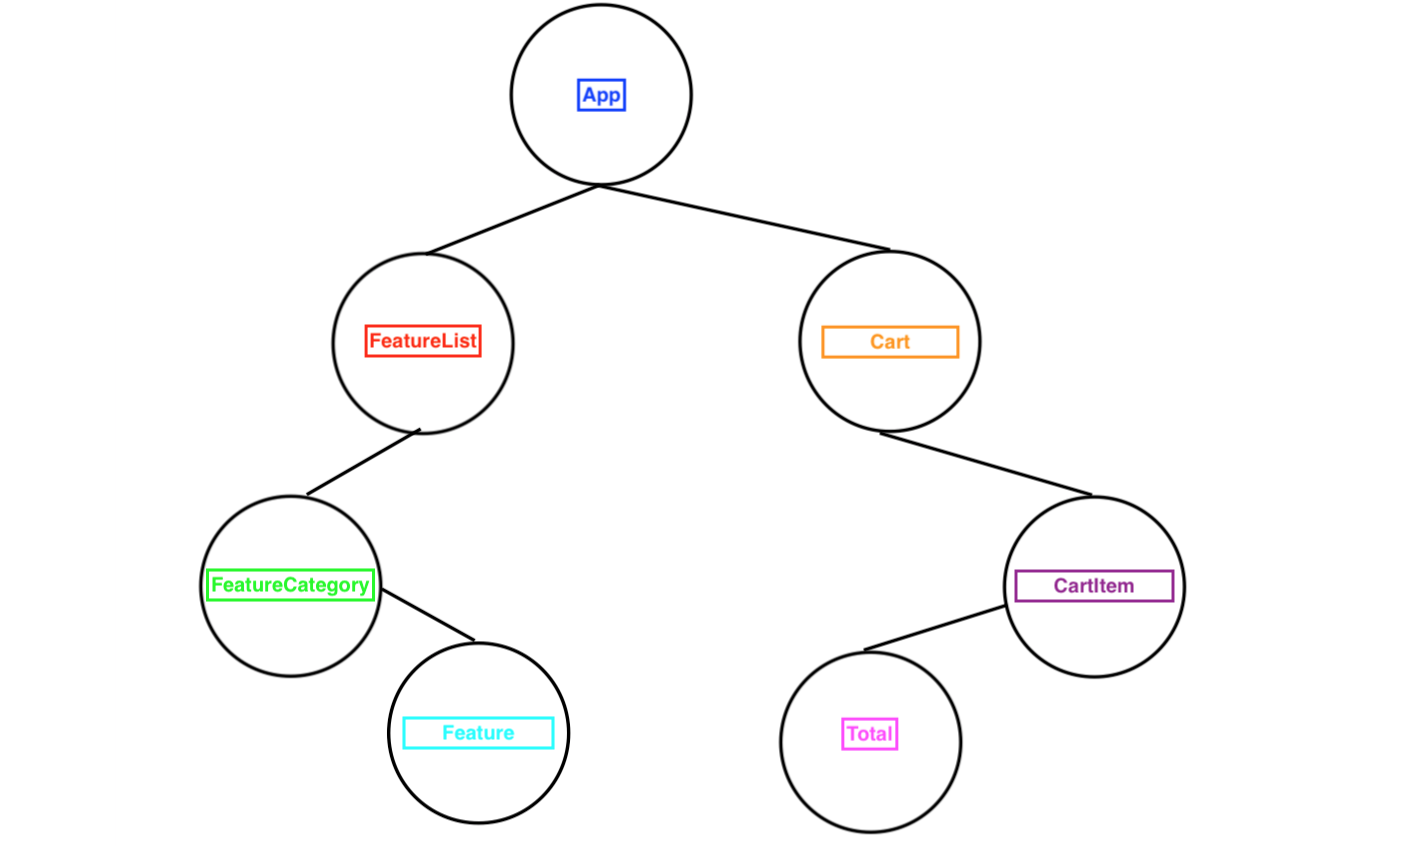
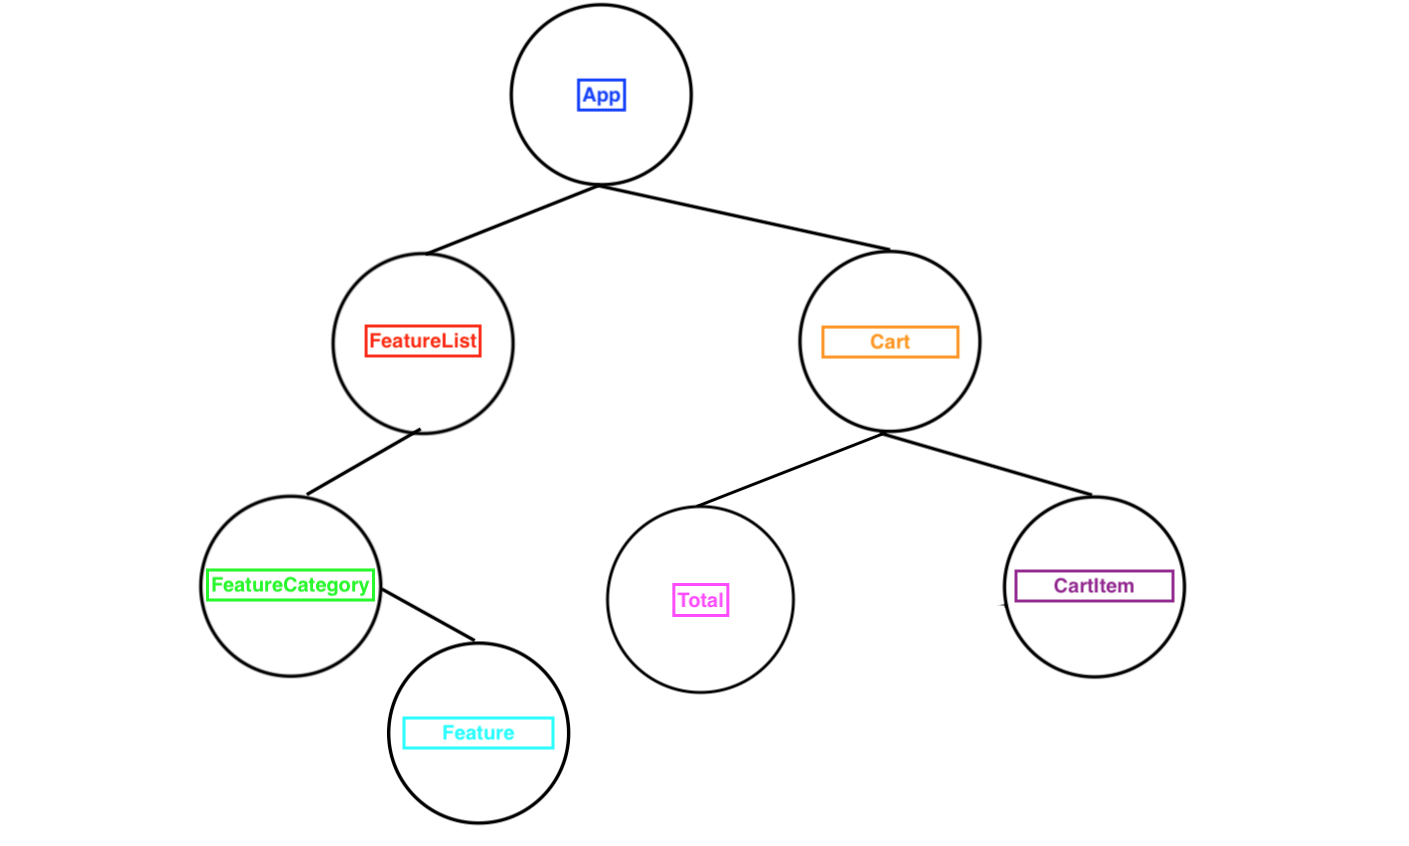
fixed features import and hierarchy

diff --git a/src/App.js b/src/App.js
@@ -2,28 +2,28 @@ import React, { Component } from "react";
 
 import FeatureList from "./FeatureList/FeatureList";
 import Cart from "./Cart/Cart";
-import Total from "./Total/Total";
-
+// import Total from "./Total/Total";
+import features from "./features.json";
 import "./App.css";
 
 class App extends Component {
   state = {
     selected: {
-      Processor: {
-        name: "17th Generation Intel Core HB (7 Core with donut spare)",
-        cost: 700,
+      "Processor": {
+        "name": "17th Generation Intel Core HB (7 Core with donut spare)",
+        "cost": 700,
       },
       "Operating System": {
-        name: "Ubuntu Linux 16.04",
-        cost: 200,
+        "name": "Ubuntu Linux 16.04",
+        "cost": 200,
       },
       "Video Card": {
-        name: "Toyota Corolla 1.5v",
-        cost: 1150.98,
+        "name": "Toyota Corolla 1.5v",
+        "cost": 1150.98,
       },
-      Display: {
-        name: '15.6" UHD (3840 x 2160) 60Hz Bright Lights and Knobs',
-        cost: 1500,
+      "Display": {
+        "name": '15.6" UHD (3840 x 2160) 60Hz Bright Lights and Knobs',
+        "cost": 1500,
       },
     },
   };
@@ -53,8 +53,8 @@ class App extends Component {
           </form>
           <section className="main__summary">
             <h2>Your cart</h2>
-            <Cart {...this.props} {...this.state} />
-            <Total {...this.props} {...this.state} />
+            <Cart features = { features } {...this.state} />
+            {/* <Total features = { features } {...this.state} /> */}
           </section>
         </main>
       </div>

diff --git a/src/index.js b/src/index.js
@@ -2,48 +2,8 @@ import React from "react";
 import ReactDOM from "react-dom";
 import "./index.css";
 import App from "./App";
+import features from "./features.json";
 
-const FEATURES = {
-  Processor: [
-    {
-      name: "17th Generation Intel Core HB (7 Core with donut spare)",
-      cost: 700,
-    },
-    {
-      name: "Professor X AMD Fire Breather with sidewinder technology",
-      cost: 1200,
-    },
-  ],
-  "Operating System": [
-    {
-      name: "Ubuntu Linux 16.04",
-      cost: 200,
-    },
-    {
-      name: "Bodhi Linux",
-      cost: 300,
-    },
-  ],
-  "Video Card": [
-    {
-      name: "Toyota Corolla 1.5v",
-      cost: 1150.98,
-    },
-    {
-      name: "Mind mild breeze 2000",
-      cost: 1345,
-    },
-  ],
-  Display: [
-    {
-      name: '15.6" UHD (3840 x 2160) 60Hz Bright Lights and Knobs',
-      cost: 1500,
-    },
-    {
-      name: '15.3" HGTV (3840 x 2160) Home makeover edition',
-      cost: 1400,
-    },
-  ],
-};
 
-ReactDOM.render(<App features={FEATURES} />, document.getElementById("root"));
+
+ReactDOM.render(<App features={ features } />, document.getElementById("root"));

diff --git a/src/Summary/Summary.js b/src/Summary/Summary.js
@@ -1,0 +1,27 @@
+import React from "react";
+
+// This object will allow us to
+// easily convert numbers into US dollar values
+const USCurrencyFormat = new Intl.NumberFormat("en-US", {
+  style: "currency",
+  currency: "USD",
+});
+
+export default function Summary(props) {
+
+  return Object.keys(props.selected).map((feature, idx) => {
+    
+    const featureHash = feature + "-" + idx;
+    const selectedOption = props.selected[feature];
+
+    return (
+      <div className="summary__option" key={featureHash}>
+        <div className="summary__option__label">{feature} </div>
+        <div className="summary__option__value">{selectedOption.name}</div>
+        <div className="summary__option__cost">
+          {USCurrencyFormat.format(selectedOption.cost)}
+        </div>
+      </div>
+    );
+  });
+};

diff --git a/src/Cart/Cart.js b/src/Cart/Cart.js
@@ -1,11 +1,15 @@
 import React from "react";
+import features from "../features.json";
+import Total from "../Total/Total";
 
-import CartItem from "../CartItem/CartItem";
+import CartItem from "../Summary/Summary";
 
 export default function Cart(props) {
-  const summary = Object.keys(props.selected).map((feature, idx) => (
-    <CartItem {...props} feature={feature} idx={idx} key={idx} />
-  ));
-
-  return summary;
-}
+  
+  return ( 
+    <>
+      <CartItem features = { features } {...props} />  
+      <Total features = { features } {...props} />
+    </>
+  );
+};
